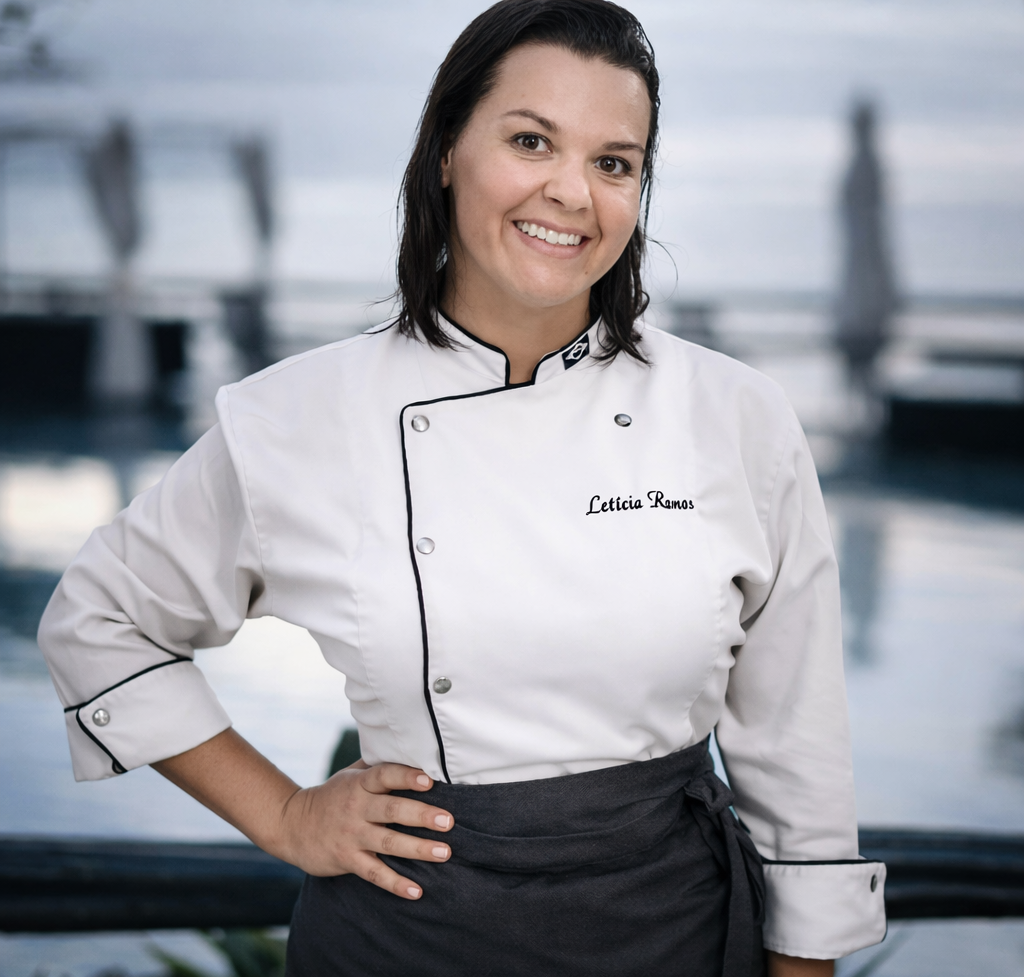
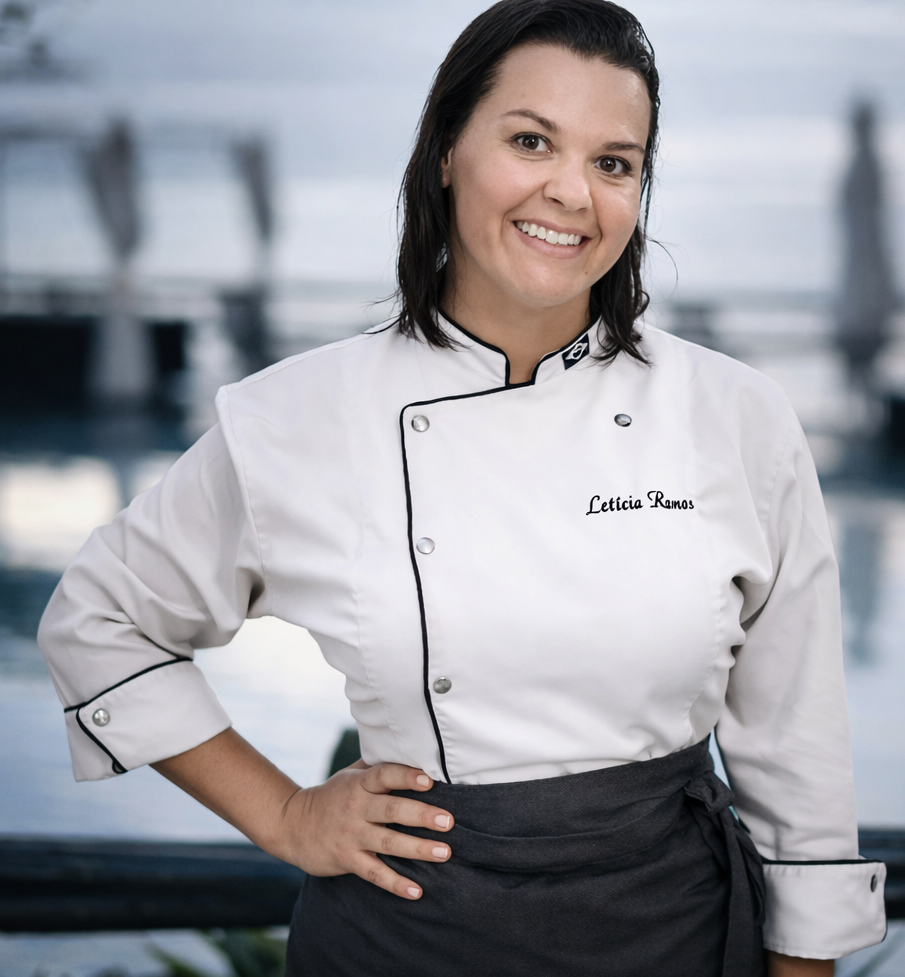
qwe

diff --git a/css/style.css b/css/style.css
@@ -302,16 +302,9 @@ p {
     font-size: 0.9rem;
 }
 
-.about-image-placeholder {
+.about-photo {
     width: 100%;
-    height: 400px;
-    background: linear-gradient(135deg, var(--secondary-color), var(--primary-color));
     border-radius: 20px;
-    display: flex;
-    align-items: center;
-    justify-content: center;
-    color: var(--white);
-    font-size: 3rem;
     box-shadow: 0 10px 40px rgba(0, 0, 0, 0.1);
 }
 
@@ -616,12 +609,16 @@ p {
         font-size: 2.5rem;
     }
 
-    .hero-image-placeholder {
-        height: 300px;
+    .about-photo {
+        max-width: 250px;
     }
 
     .hero-logo {
         max-width: 300px;
+    }
+
+    .hero-image-placeholder {
+        height: 300px;
     }
 
     .about-content {

diff --git a/index.html b/index.html
@@ -103,9 +103,7 @@
                     </div>
                 </div>
                 <div class="about-image">
-                    <div class="about-image-placeholder">
-                        <i class="fas fa-user-tie"></i>
-                    </div>
+                    <img src="eu.png" alt="Chef Letícia Ramos" class="about-photo">
                 </div>
             </div>
         </div>
